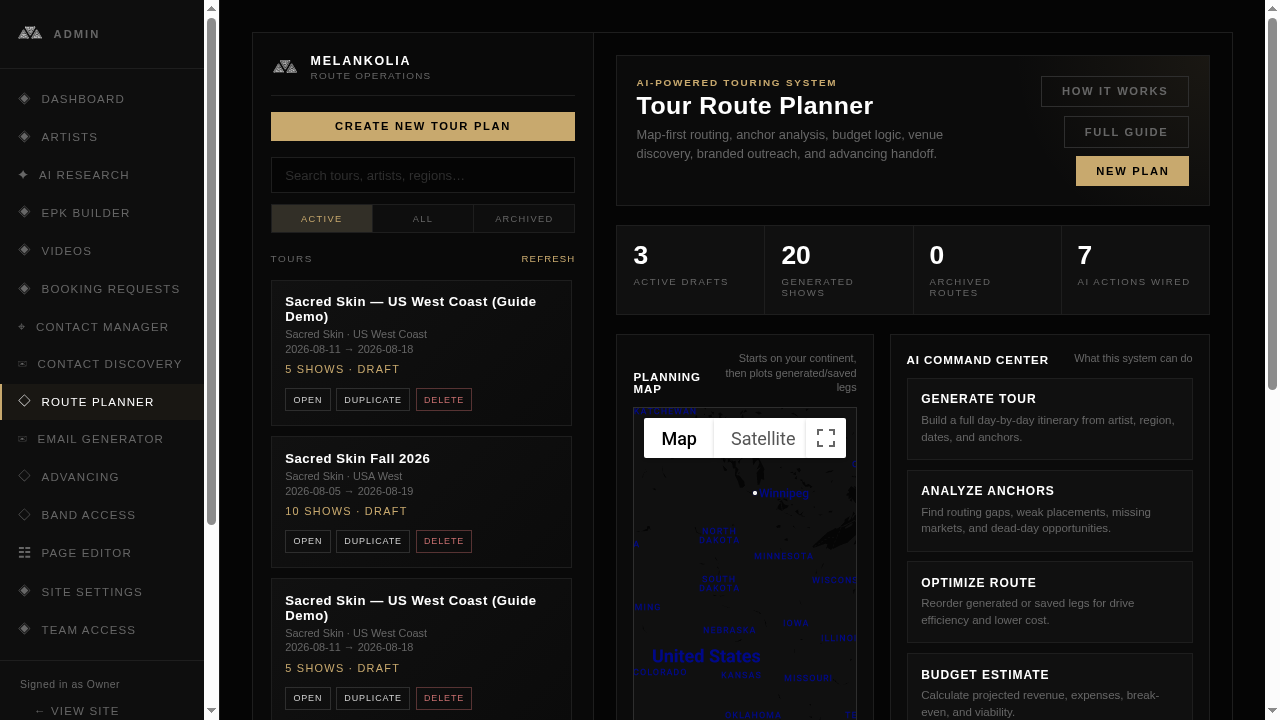
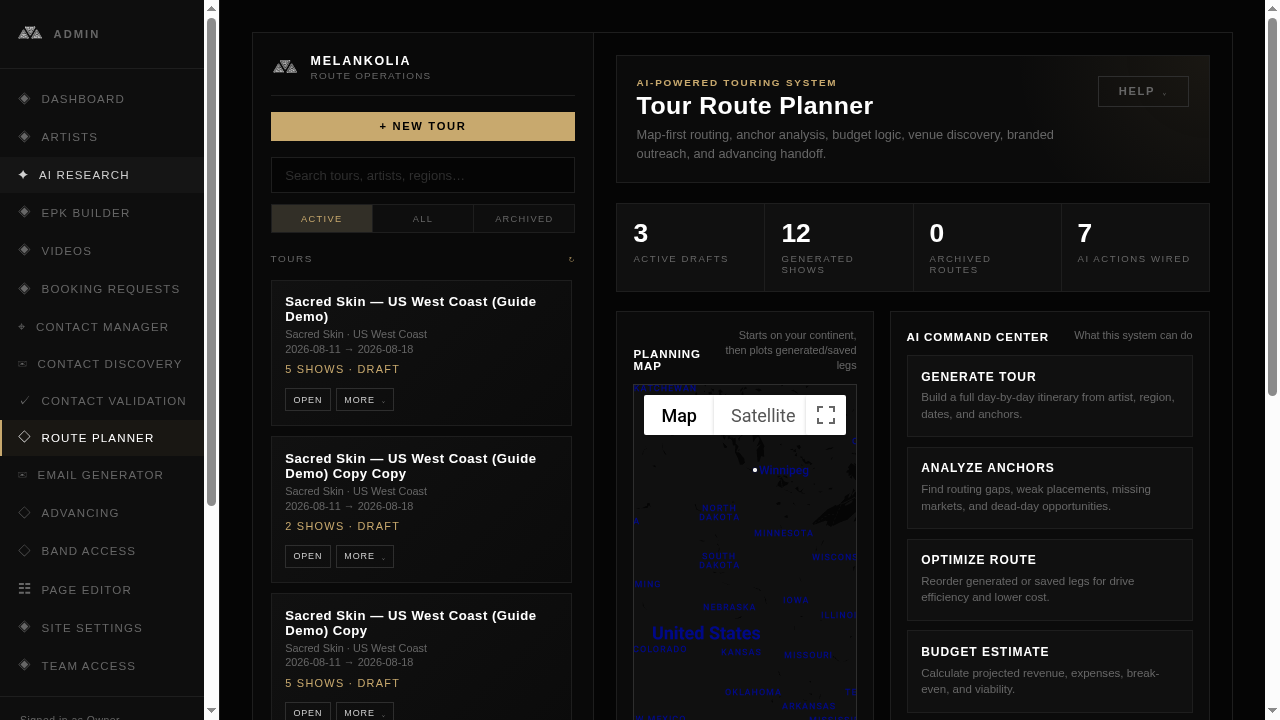
Refresh Route Planner guide after UI simplification

diff --git a/melankoliaagency/public/route-planner-guide.html b/melankoliaagency/public/route-planner-guide.html
@@ -82,7 +82,7 @@ footer{padding:34px 0 60px;color:var(--muted);font-size:13px;text-align:center}
       <div class="step-head"><span class="step-num">1</span><h3>Open the Tour Library &amp; start a project</h3></div>
       <p>Log in to the Melankolia Ops Platform and open <b>Route Planner</b> from the sidebar. The left <b>Tour Library</b> panel is your archive of active, draft and archived runs. Click <b>Create New Tour Plan</b> or <b>New Plan</b> to open a fresh configuration workspace.</p>
 
-      <div class="shot"><img src="https://melankoliaagency.com/images/route-guide/01-tour-library.png?v=guide-audit-v4" alt="Route Planner workspace and Tour Library" loading="lazy"><figcaption class="shot-cap">Live screenshot from the Melankolia Route Planner.</figcaption></div>
+      <div class="shot"><img src="https://melankoliaagency.com/images/route-guide/01-tour-library.png?v=guide-audit-v5" alt="Route Planner workspace and Tour Library" loading="lazy"><figcaption class="shot-cap">Live screenshot from the Melankolia Route Planner.</figcaption></div>
       <details class="deep"><summary>In depth</summary><div class="deep-body"><p>The <b>Tour Library</b> is more than a file list. Every card shows the artist, region, date range and current status. Three actions live on each card:</p>
 <ul>
 <li><b>Open</b>: loads the full saved workspace: map, legs, pipeline, and every Outreach Board exactly where you left them.</li>
@@ -95,7 +95,7 @@ footer{padding:34px 0 60px;color:var(--muted);font-size:13px;text-align:center}
       <div class="step-head"><span class="step-num">2</span><h3>Configure the Route Builder form</h3></div>
       <p>In the <b>Route Builder</b> on the <b>right rail</b>, enter Sacred Skin&rsquo;s parameters: artist <b>Sacred Skin</b>, region <b>US West Coast</b>, dates in <b>August 2026</b>, five shows, start <b>Los Angeles</b>, end <b>Seattle</b>, a travel party of <b>3</b>, approximately <b>80&nbsp;kg</b> of gear, ground travel, and the <b>guarantee vs door</b> deal type.</p>
 
-      <div class="shot"><img src="https://melankoliaagency.com/images/route-guide/02-route-builder-form.png?v=guide-audit-v4" alt="Configure the Route Builder form" loading="lazy"><figcaption class="shot-cap">Live screenshot from the Melankolia Route Planner.</figcaption></div>
+      <div class="shot"><img src="https://melankoliaagency.com/images/route-guide/02-route-builder-form.png?v=guide-audit-v5" alt="Configure the Route Builder form" loading="lazy"><figcaption class="shot-cap">Live screenshot from the Melankolia Route Planner.</figcaption></div>
       <details class="deep"><summary>In depth</summary><div class="deep-body"><p>Every field in the builder feeds a different downstream system, so it&rsquo;s worth knowing what each one actually drives:</p>
 <ul>
 <li><b>Artist</b>: is selected from your roster and pulls genre/market data used to match compatible venues later.</li>
@@ -111,7 +111,7 @@ footer{padding:34px 0 60px;color:var(--muted);font-size:13px;text-align:center}
       <p>Before you commit to ground travel, open <b>Transport &amp; gear feasibility</b> in the builder. Set the <b>ground vehicle</b> (rented or band-owned) and <b>rental shape</b> (return to origin or one-way drop). If the gear is flight-ready, tick <b>Gear is flight-ready</b> and add each individual flight case with its real weight.</p>
       <p>Click <b>Compare transport options</b>. The planner compares <b>van round-trip</b>, <b>one-way van plus a flight home</b>, and <b>flying the whole tour</b>, then recommends the cheapest viable option. It uses available live pricing and identifies when fallback estimates are used, so the result can change between runs. Any case over <b>70&nbsp;lb</b> blocks the flight-only scenario and requires freight or ground transport.</p>
 
-      <div class="shot"><img src="https://melankoliaagency.com/images/route-guide/03-transport-optimizer.png?v=guide-audit-v4" alt="Transport and gear feasibility comparison" loading="lazy"><figcaption class="shot-cap">Live screenshot from the Melankolia Route Planner.</figcaption></div>
+      <div class="shot"><img src="https://melankoliaagency.com/images/route-guide/03-transport-optimizer.png?v=guide-audit-v5" alt="Transport and gear feasibility comparison" loading="lazy"><figcaption class="shot-cap">Live screenshot from the Melankolia Route Planner.</figcaption></div>
       <details class="deep"><summary>In depth</summary><div class="deep-body"><p>This tool answers &ldquo;should we drive this whole thing, or is flying actually cheaper?&rdquo; using real calculations and current pricing inputs, not a rule of thumb.</p>
 <ul>
 <li><b>Ground vehicle: rented vs owned</b>: if the band owns the van, rental-cost scenarios drop out entirely; you&rsquo;re only comparing fuel/dead-miles against flying.</li>
@@ -126,7 +126,7 @@ footer{padding:34px 0 60px;color:var(--muted);font-size:13px;text-align:center}
       <p>Lock your non-negotiable dates first so the engine routes around them. In <b>Anchor Shows</b>, add the Friday <b>Aug 14, 2026</b> slot at <b>San Francisco Gothic Fest</b> (Grand Ballroom) with its guarantee, marked <b>Confirmed</b>.</p>
 
 
-      <div class="shot"><img src="https://melankoliaagency.com/images/route-guide/04-anchor-shows.png?v=guide-audit-v4" alt="Anchor Shows entry form with a confirmed San Francisco festival" loading="lazy"><figcaption class="shot-cap">Live screenshot from the Melankolia Route Planner.</figcaption></div>
+      <div class="shot"><img src="https://melankoliaagency.com/images/route-guide/04-anchor-shows.png?v=guide-audit-v5" alt="Anchor Shows entry form with a confirmed San Francisco festival" loading="lazy"><figcaption class="shot-cap">Live screenshot from the Melankolia Route Planner.</figcaption></div>
       <details class="deep"><summary>In depth</summary><div class="deep-body"><p>An <b>anchor</b> is a date the AI treats as gravity, not a suggestion: the engine will never reassign, move, or overwrite an anchor slot when it generates or regenerates the route. Everything else gets built around it.</p>
 <ul>
 <li>You can add <b>multiple anchors</b> to one tour: for example, a Friday festival plus an already-locked radio session two days later. The engine routes the drive-in and drive-out around both.</li>
@@ -138,7 +138,7 @@ footer{padding:34px 0 60px;color:var(--muted);font-size:13px;text-align:center}
       <div class="step-head"><span class="step-num">5</span><h3>Generate the AI route leg list</h3></div>
       <p>Click <b>Generate Route</b>. The engine uses route constraints, mapping data and drive guidelines to output a day-by-day itinerary: <b>Los Angeles &rarr; San Francisco (anchor) &rarr; Sacramento &rarr; Portland &rarr; Seattle</b>. Each stop lands in the <b>Booking Pipeline</b> board (Prospects &rarr; Holds &rarr; Negotiating &rarr; Confirmed) with its target rate and projected net.</p>
 
-      <div class="shot"><img src="https://melankoliaagency.com/images/route-guide/05-booking-pipeline.png?v=guide-audit-v4" alt="Generated five-stop leg list and Booking Pipeline" loading="lazy"><figcaption class="shot-cap">Live screenshot from the Melankolia Route Planner.</figcaption></div>
+      <div class="shot"><img src="https://melankoliaagency.com/images/route-guide/05-booking-pipeline.png?v=guide-audit-v5" alt="Generated five-stop leg list and Booking Pipeline" loading="lazy"><figcaption class="shot-cap">Live screenshot from the Melankolia Route Planner.</figcaption></div>
       <details class="deep"><summary>In depth</summary><div class="deep-body"><p><b>Generate Route</b> runs several passes at once: it checks live highway feasibility between candidate cities, cross-references your CRM&rsquo;s venue history for genre/market fit, and applies spacing logic so you&rsquo;re not routed into three 8-hour drives in a row without a rest day.</p>
 <p>The <b>Booking Pipeline</b> board that appears is a live Kanban, not a static summary:</p>
 <ul>
@@ -153,7 +153,7 @@ footer{padding:34px 0 60px;color:var(--muted);font-size:13px;text-align:center}
       <div class="step-head"><span class="step-num">6</span><h3>Analyze real driving paths &amp; transit times</h3></div>
       <p>The map now draws real, highway-specific driving paths between stops. Each leg shows the true metrics: LA&rarr;SF (~380 mi, ~6 h), SF&rarr;Sacramento (~90 mi, ~1.5 h), Sacramento&rarr;Portland (~580 mi, ~9 h), Portland&rarr;Seattle (~175 mi, ~3 h). Flights render as dashed lines.</p>
 
-      <div class="shot"><img src="https://melankoliaagency.com/images/route-guide/06-driving-paths.png?v=guide-audit-v4" alt="Real road-driving paths and transit times on the map" loading="lazy"><figcaption class="shot-cap">Live screenshot from the Melankolia Route Planner.</figcaption></div>
+      <div class="shot"><img src="https://melankoliaagency.com/images/route-guide/06-driving-paths.png?v=guide-audit-v5" alt="Real road-driving paths and transit times on the map" loading="lazy"><figcaption class="shot-cap">Live screenshot from the Melankolia Route Planner.</figcaption></div>
       <details class="deep"><summary>In depth</summary><div class="deep-body"><p>This isn&rsquo;t a straight-line estimate between pins: the map calls a real routing engine (Google Routes API under the hood) to draw the actual highway path and return true drive time and distance for every ground leg. That&rsquo;s why you see specific numbers like <b>580 mi / 9 h</b> instead of a rounded guess.</p>
 <ul>
 <li><b>Solid lines</b> = driving legs, labeled with live drive-time and distance.</li>
@@ -166,7 +166,7 @@ footer{padding:34px 0 60px;color:var(--muted);font-size:13px;text-align:center}
       <p>The Sacramento&rarr;Portland leg is a grueling 9-hour drive. Click <b>AI Oversight</b> to scan for risks. It flags the long leg. Use the inline <b>Ask AI / Propose Fix</b> box: type &ldquo;<i>add a travel/off-day in Ashland, OR between Sacramento and Portland</i>&rdquo;, review the proposed change summary, and click <b>Apply</b>.</p>
 
 
-      <div class="shot"><img src="https://melankoliaagency.com/images/route-guide/07-ai-oversight.png?v=guide-audit-v4" alt="Saved AI Oversight review flagging the Sacramento to Portland drive risk" loading="lazy"><figcaption class="shot-cap">Live screenshot from the Melankolia Route Planner.</figcaption></div>
+      <div class="shot"><img src="https://melankoliaagency.com/images/route-guide/07-ai-oversight.png?v=guide-audit-v5" alt="Saved AI Oversight review flagging the Sacramento to Portland drive risk" loading="lazy"><figcaption class="shot-cap">Live screenshot from the Melankolia Route Planner.</figcaption></div>
       <details class="deep"><summary>In depth</summary><div class="deep-body"><p><b>AI Oversight</b> scans the whole generated route for risk patterns: not just long drives, but thin margins, day-of-week mismatches (a Tuesday stop in a market that only draws on weekends), and missing rest days between back-to-back long legs.</p>
 <p>The inline <b>Ask AI / Propose Fix</b> box is deliberately a two-step flow, not an instant edit:</p>
 <ul>
@@ -180,7 +180,7 @@ footer{padding:34px 0 60px;color:var(--muted);font-size:13px;text-align:center}
       <p>Click the <b>Portland</b> stop in the leg list to open the <b>Stop Detail</b> pane and its nested <b>Outreach Board</b>. Use <b>Fast Contacts</b> for immediate CRM matches or <b>Contact Finder</b> for a live web search, then review each synthwave/new wave-compatible room before adding it to outreach.</p>
 
 
-      <div class="shot"><img src="https://melankoliaagency.com/images/route-guide/08-stop-detail-portland.png?v=guide-audit-v4" alt="Portland Stop Detail with booking, transport, hotel, and outreach fields" loading="lazy"><figcaption class="shot-cap">Live screenshot from the Melankolia Route Planner.</figcaption></div>
+      <div class="shot"><img src="https://melankoliaagency.com/images/route-guide/08-stop-detail-portland.png?v=guide-audit-v5" alt="Portland Stop Detail with booking, transport, hotel, and outreach fields" loading="lazy"><figcaption class="shot-cap">Live screenshot from the Melankolia Route Planner.</figcaption></div>
       <details class="deep"><summary>In depth</summary><div class="deep-body"><p>Clicking any stop in the leg list expands the <b>Stop Detail</b> pane: the date, market size, target rate, and any notes you&rsquo;ve logged for that city. Nested inside is the <b>Outreach Board</b> for that single stop.</p>
 <p>Contact suggestions can come from the internal <b>venue CRM</b>, live Contact Finder research, or manual additions. Review genre compatibility, room capacity and contact quality before selecting a venue for the stop.</p>
 <div class="tip"><b>Tip:</b> If none of the pre-pulled venues feel right, you can add one manually from the Contact Manager and it&rsquo;ll show up here for this stop: the board isn&rsquo;t limited to auto-suggestions.</div></div></details>
@@ -188,7 +188,7 @@ footer{padding:34px 0 60px;color:var(--muted);font-size:13px;text-align:center}
       <div class="step-head"><span class="step-num">9</span><h3>Manage parallel outreach &amp; keep backups</h3></div>
       <p>Pitch several Portland venues in parallel and move each through <b>To contact</b>, <b>Contacted</b>, <b>Awaiting reply</b>, and <b>Interested / talking</b> as the conversation develops. When one venue is locked, use <b>Confirm this venue</b>. The remaining candidates keep their current outreach states and are grouped as backups automatically.</p>
 
-      <div class="shot"><img src="https://melankoliaagency.com/images/route-guide/09-parallel-outreach.png?v=guide-audit-v4" alt="Per-venue Outreach Board with statuses, confirmation, and preserved backups" loading="lazy"><figcaption class="shot-cap">Live screenshot from the Melankolia Route Planner.</figcaption></div>
+      <div class="shot"><img src="https://melankoliaagency.com/images/route-guide/09-parallel-outreach.png?v=guide-audit-v5" alt="Per-venue Outreach Board with statuses, confirmation, and preserved backups" loading="lazy"><figcaption class="shot-cap">Live screenshot from the Melankolia Route Planner.</figcaption></div>
       <details class="deep"><summary>In depth</summary><div class="deep-body"><p>The Outreach Board&rsquo;s status flow is built around real booking behavior: you rarely pitch just one room per date, and rooms fall through constantly, so the system is designed for <b>parallel</b> conversations from the start.</p>
 <ul>
 <li>Working statuses are <b>To contact</b>, <b>Contacted</b>, <b>Awaiting reply</b>, <b>Interested / talking</b>, and <b>Declined / passed</b>. <b>Confirmed</b> and <b>Fell through</b> are set with their dedicated actions.</li>
@@ -201,7 +201,7 @@ footer{padding:34px 0 60px;color:var(--muted);font-size:13px;text-align:center}
       <p>Open the tour-wide <b>Outreach Board</b> from the saved-tour toolbar. Its summaries separate city coverage from venue activity, including confirmed cities, open cities, venues to contact, conversations and follow-ups due. Use <b>Draft all follow-ups</b> for contacts with no confirmation after seven or more days, and review hold-deadline alerts above the metrics.</p>
 
 
-      <div class="shot"><img src="https://melankoliaagency.com/images/route-guide/10-tour-wide-outreach.png?v=guide-audit-v4" alt="Tour-wide Outreach Board with follow-ups and city coverage" loading="lazy"><figcaption class="shot-cap">Live screenshot from the Melankolia Route Planner.</figcaption></div>
+      <div class="shot"><img src="https://melankoliaagency.com/images/route-guide/10-tour-wide-outreach.png?v=guide-audit-v5" alt="Tour-wide Outreach Board with follow-ups and city coverage" loading="lazy"><figcaption class="shot-cap">Live screenshot from the Melankolia Route Planner.</figcaption></div>
       <details class="deep"><summary>In depth</summary><div class="deep-body"><p>This is the tour-wide command center. While the per-stop board (Step 9) manages one city, this view rolls every stop into one pipeline so nothing quietly stalls.</p>
 <ul>
 <li>The <b>KPI strip</b> gives an at-a-glance count of confirmed stops, stops still in active conversation, and how many contacts are overdue for a follow-up.</li>
@@ -214,7 +214,7 @@ footer{padding:34px 0 60px;color:var(--muted);font-size:13px;text-align:center}
       <p><b>Generate Route</b> autosaves the draft tour and creates one linked Firestore show record for every non-rest-day stop. Before returning to the Tour Library, confirm the header reads <b>5 Firestore show records linked</b> and review the final pipeline, rates, transport assumptions and projected net.</p>
 
 
-      <div class="shot"><img src="https://melankoliaagency.com/images/route-guide/11-save-sync.png?v=guide-audit-v4" alt="Saved route showing five linked Firestore show records and the live pipeline" loading="lazy"><figcaption class="shot-cap">Live screenshot from the Melankolia Route Planner.</figcaption></div>
+      <div class="shot"><img src="https://melankoliaagency.com/images/route-guide/11-save-sync.png?v=guide-audit-v5" alt="Saved route showing five linked Firestore show records and the live pipeline" loading="lazy"><figcaption class="shot-cap">Live screenshot from the Melankolia Route Planner.</figcaption></div>
       <details class="deep"><summary>In depth</summary><div class="deep-body"><p>On successful generation, the new tour receives an API-generated ID, appears in the Tour Library, and creates one draft Advancing record for each non-rest-day stop. Pipeline moves, stop edits, outreach changes and assistant-applied patches then persist against that saved tour.</p>
 <p>There is no separate save button in a saved-tour workspace: pipeline moves, Stop Detail edits, outreach changes and approved AI patches persist as you make them. The linked-show count is the quickest visual check that Route Planner and Advancing are still aligned.</p>
 <div class="tip"><b>Tip:</b> Once the tour appears in the library, it can be duplicated as a template. For a future regional run, clone it and review every date, venue, rate and transport assumption before using the copy.</div></div></details>
